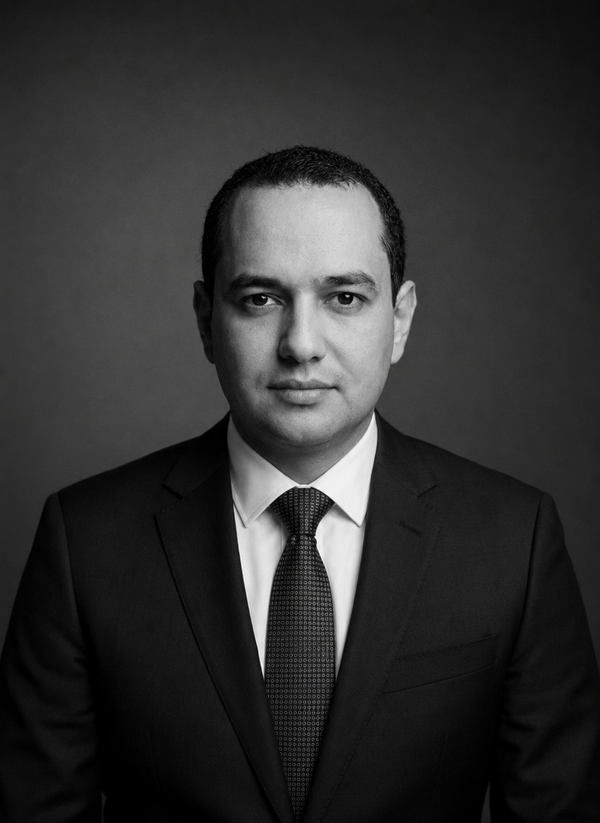
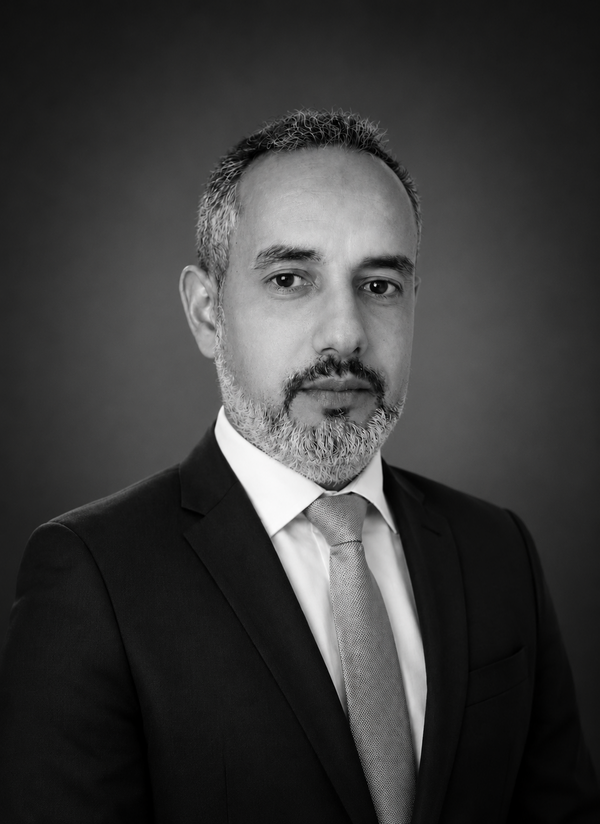
feat: update sector list with images, reorder team, optimize Dahbi

Changed region(s): [[0.06, 0.1215, 0.96, 1.0], [0.12, 0.7594, 0.15, 0.7898]]

diff --git a/src/components/public/Secteurs.tsx b/src/components/public/Secteurs.tsx
@@ -3,12 +3,20 @@
 import { motion } from 'framer-motion';
 
 const secteurs = [
-  { title: 'Services & Finance', desc: 'Banques, assurances, sociétés de services et institutions financières.', img: '/images/secteurs/finance.jpg' },
-  { title: 'Industrie & Manufacture', desc: 'Industries manufacturières, agroalimentaires et unités de production.', img: '/images/secteurs/industrie.jpg' },
-  { title: 'Santé & Pharmacie', desc: 'Cliniques, laboratoires, pharmacies et établissements de santé.', img: '/images/secteurs/sante.jpg' },
-  { title: 'Éducation & Formation', desc: 'Institutions académiques, centres de formation et organismes éducatifs.', img: '/images/secteurs/education.jpg' },
-  { title: 'Transport & Logistique', desc: 'Transport maritime, aérien, terrestre et chaînes logistiques.', img: '/images/secteurs/transport.jpg' },
-  { title: 'Immobilier & BTP', desc: 'Promotion immobilière, construction, et aménagement urbain.', img: '/images/secteurs/immobilier.jpg' },
+  { title: 'Banques et institutions financières', desc: 'Banques, assurances, sociétés de services et institutions financières.', img: '/images/secteurs/banques.jpg' },
+  { title: 'Industrie agroalimentaire', desc: 'Industries agroalimentaires et unités de production.', img: '/images/secteurs/agroalimentaire.jpg' },
+  { title: 'Secteur agricole', desc: 'Exploitations agricoles et filières agro-industrielles.', img: '/images/secteurs/agricole.jpg' },
+  { title: 'Industrie chimique', desc: 'Industries chimiques et unités de transformation.', img: '/images/secteurs/chimique.jpg' },
+  { title: 'Industrie pharmaceutique', desc: 'Laboratoires pharmaceutiques et établissements de santé.', img: '/images/secteurs/pharmaceutique.jpg' },
+  { title: 'Cisternes, bâtiments et travaux publics', desc: 'Construction, BTP et aménagement urbain.', img: '/images/secteurs/btp.jpg' },
+  { title: 'Secteur hôtelier', desc: 'Hôtels, resorts et établissements touristiques.', img: '/images/secteurs/hotelier.jpg' },
+  { title: 'Secteur commercial', desc: 'Grande distribution, commerces et surfaces de vente.', img: '/images/secteurs/commercial.jpg' },
+  { title: 'Industrie mécanique', desc: 'Industries mécaniques et unités de fabrication.', img: '/images/secteurs/mecanique.jpg' },
+  { title: 'Cliniques', desc: 'Cliniques, laboratoires et établissements de soins.', img: '/images/secteurs/cliniques.jpg' },
+  { title: 'Secteur de télécommunication', desc: 'Télécommunications et technologies de l\'information.', img: '/images/secteurs/telecom.jpg' },
+  { title: 'Secteur pétrolier', desc: 'Industrie pétrolière, raffinage et distribution.', img: '/images/secteurs/petrolier.jpg' },
+  { title: 'Promotion immobilière', desc: 'Promotion immobilière et développement foncier.', img: '/images/secteurs/immobiliere.jpg' },
+  { title: 'Industrie d\'hygiène', desc: 'Produits d\'hygiène, cosmétiques et détergents.', img: '/images/secteurs/hygiene.jpg' },
 ];
 
 const fadeUp = {

diff --git a/src/components/public/Team.tsx b/src/components/public/Team.tsx
@@ -20,16 +20,16 @@ const founder: Member = {
 
 const walid: Member = {
   name: 'Walid Moussa',
-  role: 'Manager',
+  role: 'Manager Partner',
   photo: '/cabinet/Walid-Moussa.jpeg',
 };
 
 const rest: Member[] = [
-  { name: 'Ayman El Euch', role: 'Manager', photo: '/cabinet/Ayman-El-Euch.png' },
-  { name: 'Hafedh Kharrat', role: 'Manager', photo: '/cabinet/Hafedh-kharrat.png' },
-  { name: 'Salem Ben Salah', role: 'Manager', photo: '/cabinet/Salem_Ben_Salah.png' },
   { name: 'Haythem Belhadj', role: 'Manager', photo: '/cabinet/Haythem_belhadj.png' },
+  { name: 'Salem Ben Salah', role: 'Manager', photo: '/cabinet/Salem_Ben_Salah.png' },
   { name: 'Sofiene Dahbi', role: 'Manager', photo: '/cabinet/Dahbi_Sofiene.png' },
+  { name: 'Hafedh Kharrat', role: 'Manager', photo: '/cabinet/Hafedh-kharrat.png' },
+  { name: 'Ayman El Euch', role: 'Manager', photo: '/cabinet/Ayman-El-Euch.png' },
 ];
 
 function Avatar({ m, size, delay = 0 }: { m: Member; size: 'lg' | 'md'; delay?: number }) {

diff --git a/src/components/public/Societies.tsx b/src/components/public/Societies.tsx
@@ -102,7 +102,7 @@ export default function Societies() {
       >
         <div
           className="flex items-center gap-14 hover:[animation-play-state:paused]"
-          style={{ animation: 'marquee 45s linear infinite' }}
+          style={{ animation: 'marquee 15s linear infinite' }}
         >
           {[...logos, ...logos].map((src, i) => (
             <div

diff --git a/src/components/public/StatsBar.tsx b/src/components/public/StatsBar.tsx
@@ -6,7 +6,7 @@ import { motion, useInView } from 'framer-motion';
 const stats = [
   { number: '30+', label: "Années d'expérience" },
   { number: '200+', label: 'Clients accompagnés' },
-  { number: '40+', label: 'Experts à votre service' },
+  { number: '30+', label: 'Experts à votre service' },
   { number: '100%', label: 'Engagement qualité' },
 ];
 
